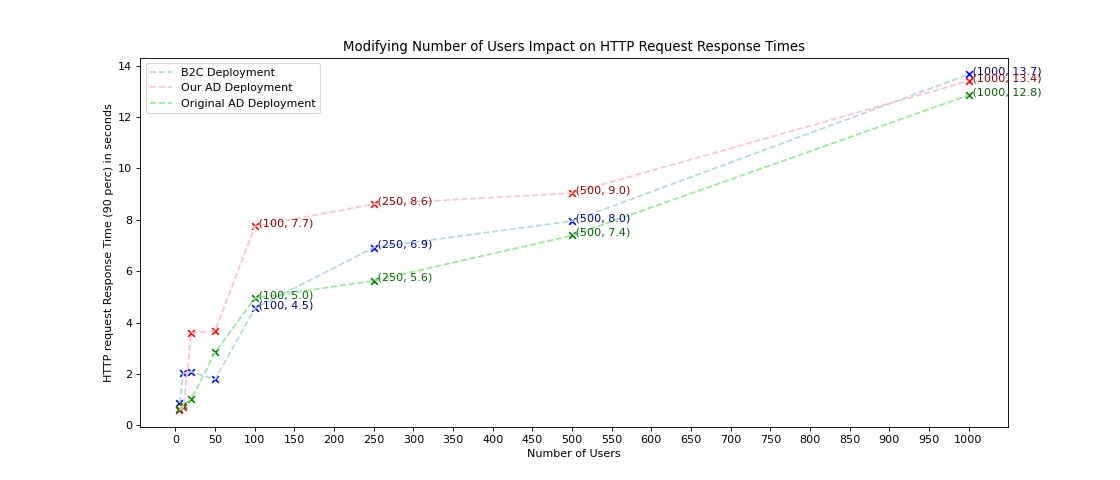
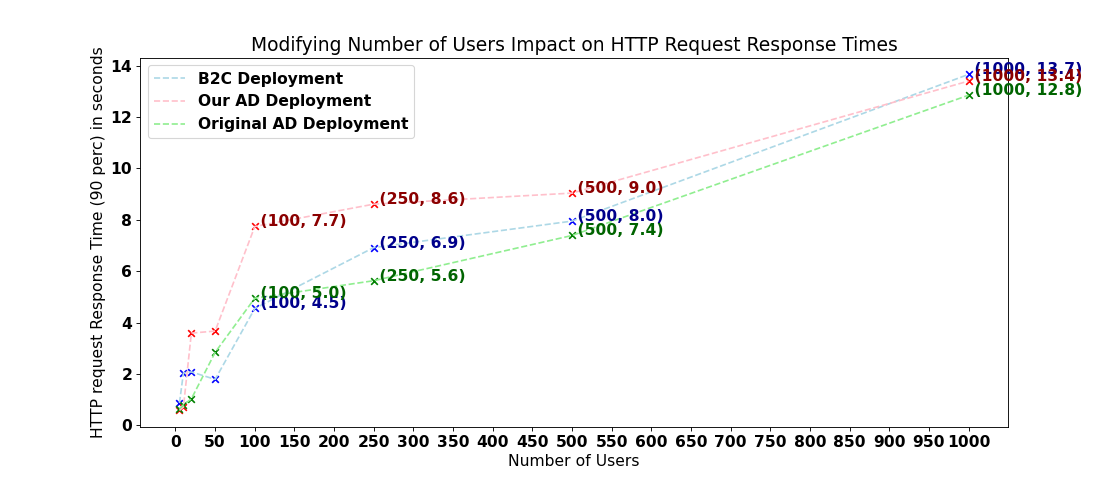
Increased fontsize of diagram

diff --git a/__LoadDiagrams/diagrams.py b/__LoadDiagrams/diagrams.py
@@ -6,6 +6,12 @@ def drawDiagram(xAxis1, yAxis1, xAxis2, yAxis2, xAxis3, yAxis3, xLabel, yLabel, 
     
     plt.figure(figsize=(14,6), dpi=80)
 
+    font = {'family' : 'DejaVu Sans',
+        'weight' : 'bold',
+        'size'   : 14}
+
+    plt.rc('font', **font)
+
     plt.plot(xAxis1, yAxis1, linestyle='--', c='lightblue', label=yLegend1)
     plt.scatter(xAxis1, yAxis1, c='blue', marker="x")
     # plt.text(800, min(yAxis1+yAxis2+yAxis3)+(max(yAxis1+yAxis2+yAxis3)-min(yAxis1+yAxis2+yAxis3))*0.7, "Our B2C did not fail", color="blue")
